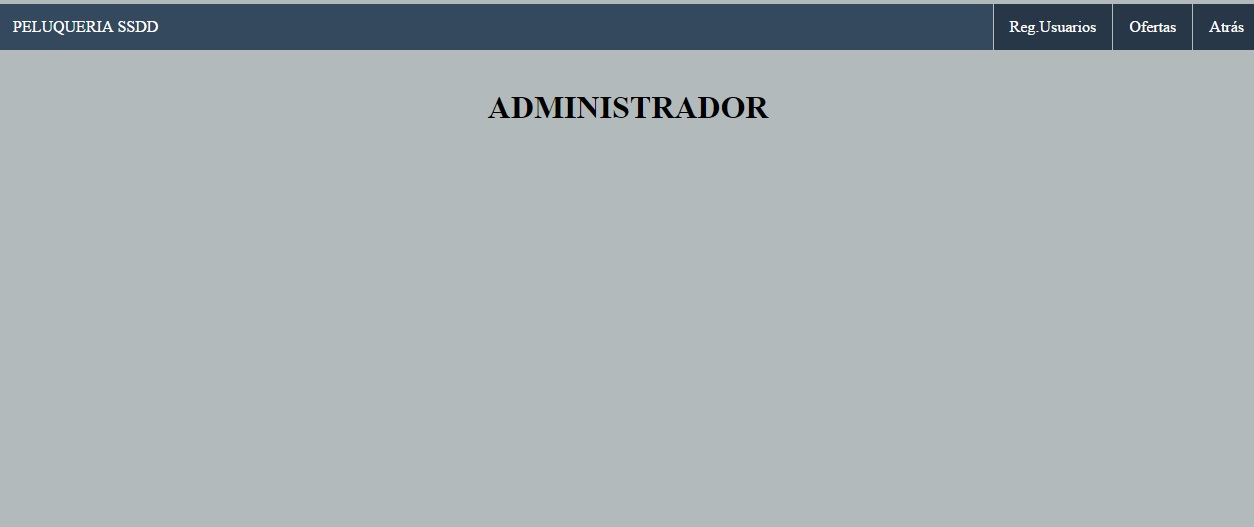
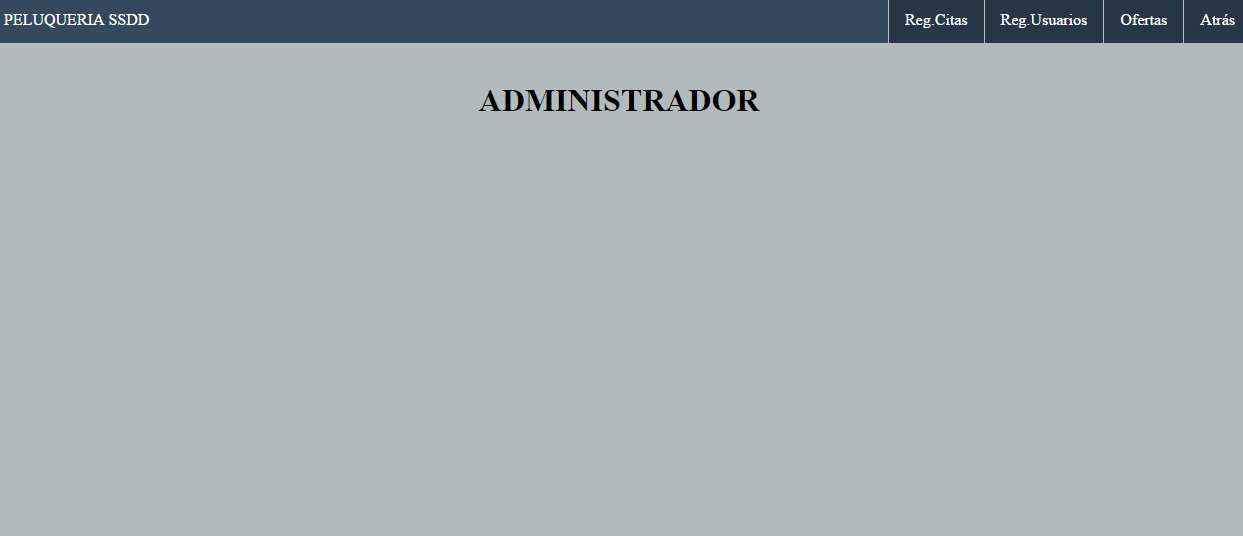
Mejoras y Cambios

Changed region(s): [[0.0, 0.0, 1.0, 0.1214], [0.3669, 0.1518, 0.6114, 0.2429]]

diff --git a/Desarrollo/src/main/resources/templates/Login.html b/Desarrollo/src/main/resources/templates/Login.html
@@ -63,13 +63,13 @@
 		<br></br>
 		<p>Síguenos</p>
 		
-<a href="https://es-la.facebook.com/public/Carlos-Murcia" target="_blank"><img alt="siguenos en facebook" height="32" src="http://2.bp.blogspot.com/-q_Tm1PpPfHo/UiXnJo5l-VI/AAAAAAAABzU/MKdrVYZjF0c/s1600/face.png" title="siguenos en facebook" width="32" /></a>
+<a href="https://es-la.facebook.com/" target="_blank"><img alt="siguenos en facebook" height="32" src="http://2.bp.blogspot.com/-q_Tm1PpPfHo/UiXnJo5l-VI/AAAAAAAABzU/MKdrVYZjF0c/s1600/face.png" title="siguenos en facebook" width="32" /></a>
 
 <a href="https://es.pinterest.com/" target="_blank"><img alt="Sígueme en Pinterest" height="32" src="http://2.bp.blogspot.com/-jKx3RnQCslA/UiYMDLz_40I/AAAAAAAAB9Y/ekDWhiimFuA/s1600/Sin+t%25C3%25ADtulo.png" title="Sígueme en Pinterest" width="32" /></a>
 
 <a href="https://twitter.com/?lang=es" target="_blank"><img alt="siguenos en Twitter" height="32" src="http://3.bp.blogspot.com/-wlwaJJG-eOY/UiXnHS2jLsI/AAAAAAAAByQ/I2tLyZDLNL4/s1600/Twitter+NEW.png" title="siguenos en Twitter" width="32" /></a>
 
-<a href="URL-youtube" target="_blank"><img alt="Canal de youtube" height="32" src="http://4.bp.blogspot.com/-XWyVHd85Urk/UiXnJChMVWI/AAAAAAAABzI/RHztkyc7gAU/s1600/YouTube+alt+1.png" title="Canal de youtube" width="32" /></a>	
+<a href="https://www.youtube.com/?hl=es&gl=ES" target="_blank"><img alt="Canal de youtube" height="32" src="http://4.bp.blogspot.com/-XWyVHd85Urk/UiXnJChMVWI/AAAAAAAABzI/RHztkyc7gAU/s1600/YouTube+alt+1.png" title="Canal de youtube" width="32" /></a>	
 </center>
 <br><br/>
 <b>Opiniones: </b>

diff --git a/Desarrollo/src/main/resources/templates/CitaRegistrada.html b/Desarrollo/src/main/resources/templates/CitaRegistrada.html
@@ -1,0 +1,48 @@
+<html>
+
+	<head>
+		<meta charset="UTF-8"/>
+
+		<style>
+			ul {
+    			list-style-type: none;
+    			margin: 0;
+    			padding: 0;
+    			overflow: hidden;
+    			background-color: #34495E ;
+			   }
+
+			li {
+    			float: left;
+		           }
+
+			li a {
+    			display: block;
+    			color: white;
+    			text-align: center;
+    			padding: 14px 16px;
+    			text-decoration: none;
+			}
+			li a:hover {
+    			background-color: ;
+			}
+
+		</style>
+	</head>
+
+	<body bgcolor="#B2BABB">
+
+		<ul>
+ 		<li><a>PELUQUERIA SSDD</a></li>
+ 		<li style="float:right"><a class="active" href="/admin">Atrás</a></li>
+		</ul>
+		<center>
+		<h1>Registro de Citas</h1>
+		</center>
+		
+		{{#cita}}
+		{{dia}} {{hora}} con {{profesional}} para  {{tratamiento}}<br></br>
+		{{/cita}}
+		
+	</body><br></br>
+</html>

diff --git a/Desarrollo/src/main/resources/templates/Administrador.html b/Desarrollo/src/main/resources/templates/Administrador.html
@@ -45,6 +45,7 @@
  			<li style="float:right"><a class="active" href="/oferta" >Ofertas</a></li>
 			<input type="hidden" name="_csrf" value="{{token}}"/>
 			<li style="float:right"><a class="active" href="/usuario/registrado" >Reg.Usuarios</a></li>
+			<li style="float:right"><a class="active" href="/cita/registrada" >Reg.Citas</a></li>
 			<input type="hidden" name="_csrf" value="{{token}}"/>
 			
 		</ul>

diff --git a/Desarrollo/src/main/resources/templates/NuevaOpinion.html b/Desarrollo/src/main/resources/templates/NuevaOpinion.html
@@ -53,7 +53,7 @@
 		<input type='text' name='nombre'/>
 		<br></br>
 		<p>Opinión: </p>
-		<textarea name='opiniones' rows=5 cols=40></textarea><br></br> 
+		<textarea name='opinion' rows=5 cols=40></textarea><br></br> 
 		<input type='submit' value='Enviar'/>
 	</form>
 </body>

diff --git a/Desarrollo/src/main/resources/templates/home.html b/Desarrollo/src/main/resources/templates/home.html
@@ -57,6 +57,7 @@
 	<center>
 
 		<h1>Área Privada</h1>
+		
 	
 	</body>
 </html>

diff --git a/Desarrollo/src/main/java/com/Peluqueria/HomeController.java b/Desarrollo/src/main/java/com/Peluqueria/HomeController.java
@@ -1,6 +1,7 @@
 package com.Peluqueria;
 
 
+import java.util.ArrayList;
 import javax.annotation.PostConstruct;
 import javax.servlet.http.HttpServletRequest;
 
@@ -9,6 +10,7 @@ import org.springframework.stereotype.Controller;
 import org.springframework.ui.Model;
 import org.springframework.web.bind.annotation.GetMapping;
 import org.springframework.web.bind.annotation.PostMapping;
+
 
 
 @Controller
@@ -31,13 +33,11 @@ public class HomeController {
 		
 		repository1.save (new Opiniones ("Carlos", "Buenisima opinion sobre la aplicación"));
 		repository1.save (new Opiniones ("Rosa", "El personal muy amable"));
-		repository1.save (new Opiniones ("Raul", "Altamente recomendable"));
 		repository2.save (new Cita ("Lunes", "10:00 horas","Ana","Lavar"));
 		repository2.save (new Cita ("Martes", "11:00 horas","Alicia","Peinar"));
-		repository2.save (new Cita ("Miercoles", "12:00 horas","Sonia","Tinte"));
-		repository3.save (new Oferta ("Martes corte caballero mitad de precio", "13/02/2017", "13/03/2017"));
-		repository3.save (new Oferta ("Lavado y tinte 15€", "15/03/2017", "15/04/2017"));
-		repository3.save (new Oferta ("Tratamiento 2x1", "22/05/2017", "30/06/2017"));
+		repository3.save (new Oferta ("Martes corte caballero mitad de precio", "2017/03/27", "2017/04/20"));
+		repository3.save (new Oferta ("Lavado y tinte 15€", "2017/04/15", "2017/05/23"));
+		
 		
 	}
 
@@ -47,14 +47,19 @@ public class HomeController {
     }
     
     @GetMapping("/usuario")
-	public String NuevoUsuario(Model model, Usuarios Usuarios, HttpServletRequest request){
+	public String NuevoUsuario(Model model){
 
-    	repository.save(Usuarios);
 
 		return "NuevoUsuario";
 	}
 	@GetMapping("/usuario/guardado")
-	public String usuarioGuardado() {
+	public String usuarioGuardado(Model model, Usuarios Usuarios) {
+		
+		
+		ArrayList<String> roles = new ArrayList<String>();
+	 	roles.add("ROLE_USER");
+	 	Usuarios.setRoles(roles);
+		repository.save(Usuarios);
 
 		return "UsuarioGuardado";
 
@@ -67,46 +72,60 @@ public class HomeController {
 		return "UsuariosRegistrados";
 
 	}
-	
 	@GetMapping("/opinion")
-	public String NuevaOpinion(Model model, Opiniones Opiniones, HttpServletRequest request){
+	public String NuevaOpinion(Model model){
 
-	    repository1.save(Opiniones);
+	   
 
 		return "NuevaOpinion";
 		}
 	
 	@GetMapping("/opinion/guardada")
-	public String OpinionGuardada() {
+	public String OpinionGuardada(Model model, Opiniones Opiniones) {
 
+		 repository1.save(Opiniones);
+		 
 		return "OpinionGuardada";
 
 		}
 	
 	@GetMapping("/cita")
-	public String NuevaCita(Model model, Cita cita, HttpServletRequest request){
+	public String NuevaCita(){
 
-	    repository2.save(cita);
 
 		return "NuevaCita";
 		}
 	
 	@PostMapping("/cita/guardada")
-	public String CitaGuardada() {
+	public String CitaGuardada(Model model, Cita cita) {
+		
+		repository2.save(cita);
 
 		return "CitaGuardada";
 
 		}
-	@GetMapping("/oferta")
-	public String NuevaOferta(Model model, Oferta oferta, HttpServletRequest request){
+	
+	@GetMapping("/cita/registrada")
+	public String CitaRegistrada(Model model) {
+		model.addAttribute("usuarios", repository.findAll ());
+		model.addAttribute("cita", repository2.findAll ());
 
-	    repository3.save(oferta);
+		return "CitaRegistrada";
+	}
+	
+
+	@GetMapping("/oferta")
+	public String NuevaOferta(){
+
+	    
 
 		return "NuevaOferta";
 		}
 	
 	@GetMapping("/oferta/guardada")
-	public String OfertaGuardada() {
+	public String OfertaGuardada(Model model, Oferta oferta) {
+		
+		repository3.save(oferta);
 
 		return "OfertaGuardada";
 
@@ -137,9 +156,8 @@ public class HomeController {
     public String home(Model model, HttpServletRequest request) {
     	
     	model.addAttribute("admin", request.isUserInRole("ADMIN"));
-    	model.addAttribute("usuarios", repository.count());
-    	model.addAttribute("Opiniones", repository.findAll ());
-    	model.addAttribute("oferta", repository.findAll ());
+    	model.addAttribute("cita", repository2.findAll ());
+    	
     	
     	return "Home";
     }

diff --git a/Desarrollo/src/main/java/com/Peluqueria/Usuarios.java b/Desarrollo/src/main/java/com/Peluqueria/Usuarios.java
@@ -4,14 +4,18 @@ import java.util.ArrayList;
 import java.util.Arrays;
 import java.util.List;
 
+import javax.persistence.CascadeType;
 import javax.persistence.ElementCollection;
 import javax.persistence.Entity;
 import javax.persistence.FetchType;
 import javax.persistence.GeneratedValue;
 import javax.persistence.GenerationType;
 import javax.persistence.Id;
+import javax.persistence.OneToOne;
 
 import org.springframework.security.crypto.bcrypt.BCryptPasswordEncoder;
+
+
 
 @Entity
 public class Usuarios {
@@ -23,21 +27,25 @@ public class Usuarios {
 	private String nombre;
 	private String email;
 	private String telefono;
-	private String passwordHash;
+	private String password;
+	
+	@OneToOne(cascade=CascadeType.ALL)
+	private Cita cita;
 
 	@ElementCollection(fetch = FetchType.EAGER)
 	private List<String> roles;
 
-	protected Usuarios() {
+	public Usuarios() {
 	}
 
 	public Usuarios(String nombre, String email, String telefono, String password, String... roles) {
 		this.nombre = nombre;
 		this.email = email;
 		this.telefono = telefono;
-		this.passwordHash = new BCryptPasswordEncoder().encode(password);
+		this.password = new BCryptPasswordEncoder().encode(password);
 		this.roles = new ArrayList<>(Arrays.asList(roles));
 	}
+
 
 	public String getNombre() {
 		return nombre;
@@ -63,12 +71,12 @@ public class Usuarios {
 	}
 
 
-	public String getPasswordHash() {
-		return passwordHash;
+	public String getPassword() {
+		return password;
 	}
 
-	public void setPasswordHash(String passwordHash) {
-		this.passwordHash = passwordHash;
+	public void setPassword(String passwordHash) {
+		this.password = new BCryptPasswordEncoder().encode(passwordHash);
 	}
 
 	public List<String> getRoles() {
@@ -78,5 +86,6 @@ public class Usuarios {
 	public void setRoles(List<String> roles) {
 		this.roles = roles;
 	}
+
 
 }

diff --git a/Desarrollo/src/main/java/com/Peluqueria/UsuariosRepositoryAuthenticationProvider.java b/Desarrollo/src/main/java/com/Peluqueria/UsuariosRepositoryAuthenticationProvider.java
@@ -30,7 +30,7 @@ public class UsuariosRepositoryAuthenticationProvider implements AuthenticationP
 		}
 
 		String password = (String) auth.getCredentials();
-		if (!new BCryptPasswordEncoder().matches(password, usuarios.getPasswordHash())) {
+		if (!new BCryptPasswordEncoder().matches(password, usuarios.getPassword())) {
 			throw new BadCredentialsException("Contraseña no válida");
 		}
 

diff --git a/Desarrollo/src/main/java/com/Peluqueria/OpinionesRepository.java b/Desarrollo/src/main/java/com/Peluqueria/OpinionesRepository.java
@@ -1,8 +1,8 @@
 package com.Peluqueria;
 
-import org.springframework.data.repository.CrudRepository;
+import org.springframework.data.jpa.repository.JpaRepository;
 
-public interface OpinionesRepository extends CrudRepository<Opiniones, Long> {
+public interface OpinionesRepository extends JpaRepository<Opiniones, Long> {
 	
 
 

diff --git a/Desarrollo/src/main/java/com/Peluqueria/Cita.java b/Desarrollo/src/main/java/com/Peluqueria/Cita.java
@@ -28,6 +28,7 @@ public class Cita {
 		this.profesional = profesional;
 		this.tratamiento = tratamiento;
 	}
+	
 
 	public String getDia() {
 		return dia;
